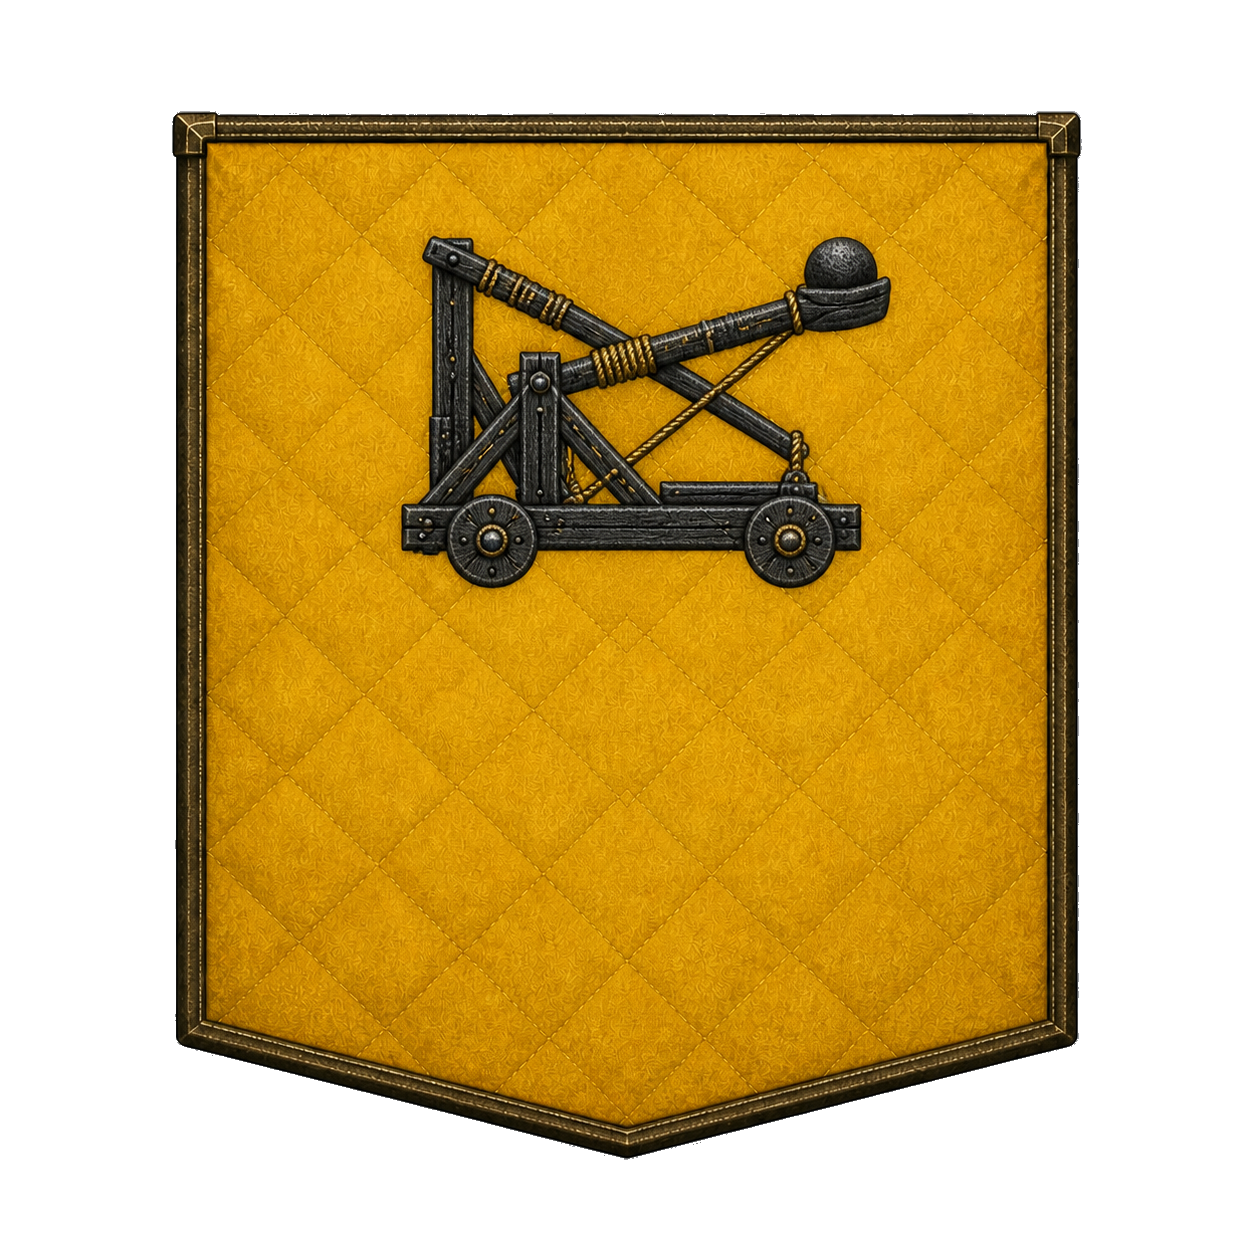
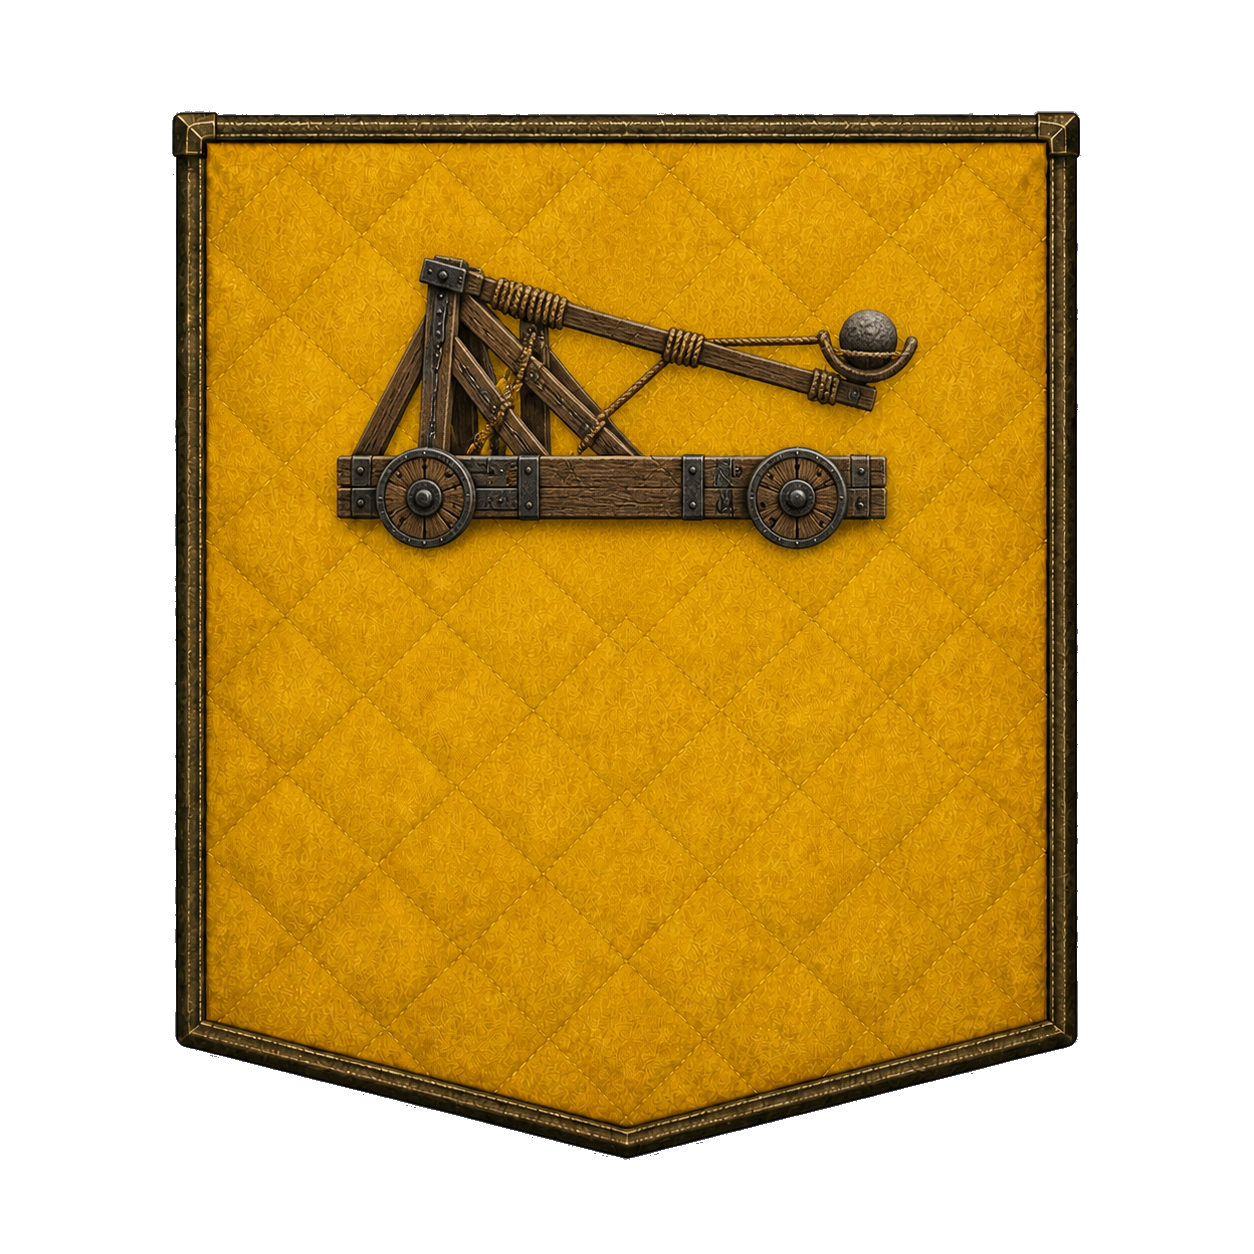
Take the new realistic catapult for Yellow's Heavy Archer
A clean swap: same backdrop, same 0.867 aspect as the rest of the set,
so the spread is unchanged at 0.046 and the banner sits where the old
one did. It also reads better at board scale, the siege frame carrying
more horizontal mass than the piece it replaces.

Blue's new catapult is not taken. It is drawn in the concept style,
full-bleed with a heavy metal-bound border and an aspect of 0.998, while
the shipped Blue set is a tall banner with a rounded point and no metal
frame at 0.70. The shipped Blue art never came from those concepts, so
dropping this in would leave Heavy Archer looking nothing like its eight
siblings. It needs redrawing in the shipped style, or Blue needs
rebuilding from the concepts wholesale.

Changed region(s): [[0.2488, 0.1866, 0.7464, 0.4976], [0.8086, 0.0933, 0.8708, 0.7775]]

diff --git a/new/tools/prepare_faction_icons.py b/new/tools/prepare_faction_icons.py
@@ -38,7 +38,7 @@ PICKS = {
         "hi": "banner_yellow_heavy_infantry_quilted_linen_poc.png",
         "la": "banner_yellow_light_archer_quilted_linen_poc.png",
         "ma": "banner_yellow_medium_archer_crossbow_quilted_linen_v2.png",
-        "ha": "banner_yellow_heavy_archer_quilted_linen_poc.png",
+        "ha": "banner_yellow_heavy_archer_realistic_catapult_v2.png",
         "lc": "banner_yellow_light_cavalry_quilted_linen_poc.png",
         "mc": "banner_yellow_medium_cavalry_quilted_linen_poc.png",
         "hc": "banner_yellow_heavy_cavalry_quilted_linen_poc.png",
